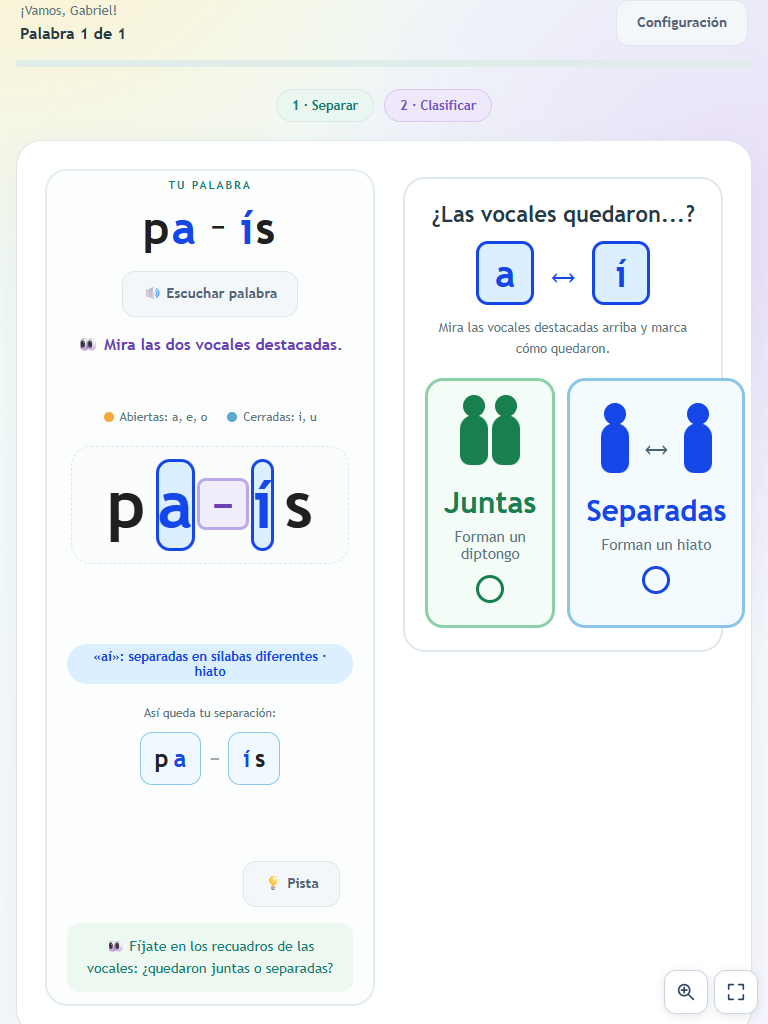
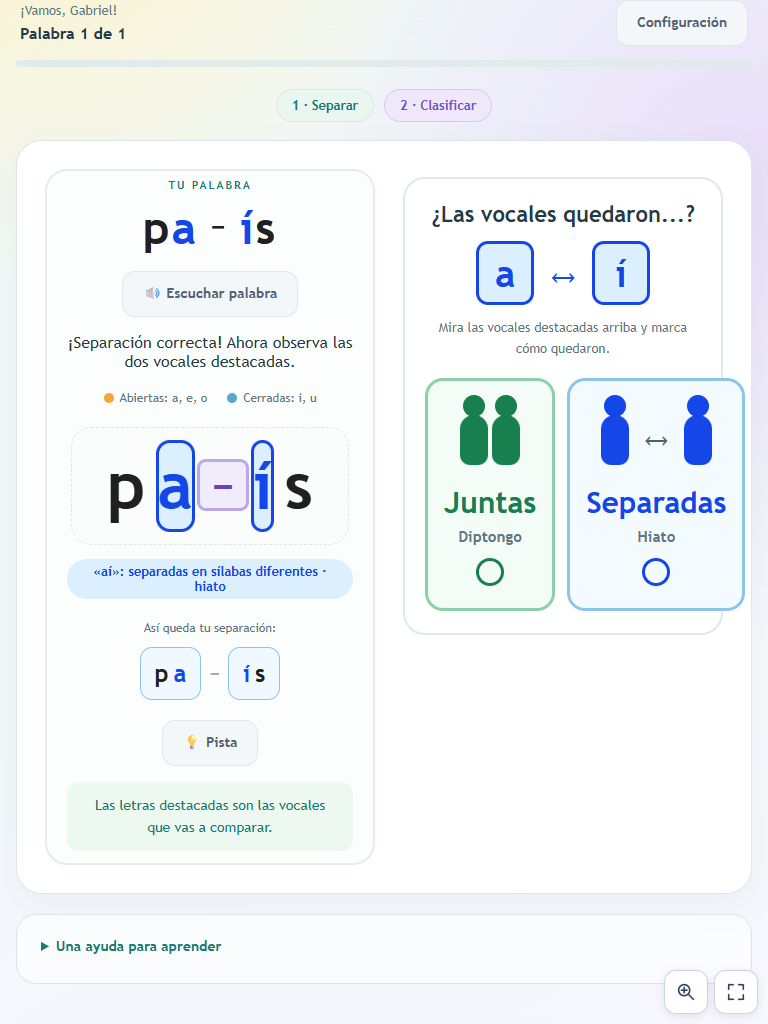
Hiato y diptongo2

diff --git a/hiato-diptongo.js b/hiato-diptongo.js
@@ -4,8 +4,8 @@
 const data = globalThis.HiatoDiptongo;
 const $ = id => document.getElementById(id);
 const key = 'hiatoDiptongo.config.v1';
-const defaults = { name: '', kind: 'ambos', level: 'easy', count: 10, help: true, sound: true, syllableSound: true };
-let settings = { ...defaults }, session = [], index = 0, current = null;
+const defaults = { name: '', kind: 'ambos', level: 'easy', help: true, readWord: true, sound: true, syllableSound: true, visualHelp: true };
+let settings = { ...defaults }, session = [], index = 0, round = 0, current = null;
 let cuts = new Set(), stage = 'separate', results = [], helped = false, helpCount = 0, attempts = 0, ticket = 0;
 let lastWord = '', speechTimer = null, speechRun = 0, dragCut = null, dragPointer = null, dragTargets = [], dragMode = 'add', dragOriginalCut = null, ignoreGapClickUntil = 0;
 const canSpeak = 'speechSynthesis' in window && 'SpeechSynthesisUtterance' in window;
@@ -15,22 +15,21 @@ try {
     settings.name = typeof saved.name === 'string' ? saved.name.slice(0, 50) : '';
     if (['ambos', 'hiato', 'diptongo'].includes(saved.kind)) settings.kind = saved.kind;
     if (['easy', 'all'].includes(saved.level)) settings.level = saved.level;
-    if ([5, 10, 20, 30].includes(saved.count)) settings.count = saved.count;
-    for (const k of ['help', 'sound', 'syllableSound']) if (typeof saved[k] === 'boolean') settings[k] = saved[k];
+    for (const k of ['help', 'readWord', 'sound', 'syllableSound', 'visualHelp']) if (typeof saved[k] === 'boolean') settings[k] = saved[k];
   }
   if (!settings.name) settings.name = (localStorage.getItem('nombreNinoGabrielApps') || '').slice(0, 50);
 } catch { /* La práctica sigue disponible con el almacenamiento bloqueado. */ }
-if (!canSpeak) { settings.sound = false; settings.syllableSound = false; }
-for (const [id, value] of [['hd-name', settings.name], ['hd-kind', settings.kind], ['hd-level', settings.level], ['hd-count', settings.count]]) $(id).value = String(value);
-$('hd-help').checked = settings.help; $('hd-sound').checked = settings.sound; $('hd-syllable-sound').checked = settings.syllableSound;
-$('hd-sound').disabled = !canSpeak; $('hd-syllable-sound').disabled = !canSpeak;
+if (!canSpeak) { settings.readWord = false; settings.sound = false; settings.syllableSound = false; }
+for (const [id, value] of [['hd-name', settings.name], ['hd-kind', settings.kind], ['hd-level', settings.level]]) $(id).value = String(value);
+$('hd-help').checked = settings.help; $('hd-read-word').checked = settings.readWord; $('hd-sound').checked = settings.sound; $('hd-syllable-sound').checked = settings.syllableSound; $('hd-visual-help').checked = settings.visualHelp;
+$('hd-read-word').disabled = !canSpeak; $('hd-sound').disabled = !canSpeak; $('hd-syllable-sound').disabled = !canSpeak;
 $('hd-listen-word').disabled = !canSpeak;
 if (!canSpeak) $('hd-listen-word').title = 'La lectura no está disponible en este navegador.';
 function readSettings() {
   settings = { name: $('hd-name').value.trim().slice(0, 50), kind: $('hd-kind').value,
-    level: $('hd-level').value, count: Number($('hd-count').value), help: $('hd-help').checked,
+    level: $('hd-level').value, help: $('hd-help').checked, readWord: canSpeak && $('hd-read-word').checked,
     sound: canSpeak && $('hd-sound').checked,
-    syllableSound: canSpeak && $('hd-syllable-sound').checked };
+    syllableSound: canSpeak && $('hd-syllable-sound').checked, visualHelp: $('hd-visual-help').checked };
 }
 function saveSettings() {
   readSettings();
@@ -43,10 +42,10 @@ function saveSettings() {
 }
 function updateAvailable() {
   const n = data.pool(settings).length;
-  $('hd-available').textContent = n + ' palabras disponibles · ' + Math.min(settings.count, n) + ' en esta sesión. La selección cambia y no repite palabras.';
+  $('hd-available').textContent = n + ' palabras disponibles por ronda. Se muestran al azar sin repetirse hasta completar la ronda.';
   $('hd-start').disabled = n === 0;
 }
-['hd-name', 'hd-kind', 'hd-level', 'hd-count', 'hd-help', 'hd-sound', 'hd-syllable-sound'].forEach(id => $(id).addEventListener(id === 'hd-name' ? 'input' : 'change', saveSettings));
+['hd-name', 'hd-kind', 'hd-level', 'hd-help', 'hd-read-word', 'hd-sound', 'hd-syllable-sound', 'hd-visual-help'].forEach(id => $(id).addEventListener(id === 'hd-name' ? 'input' : 'change', saveSettings));
 function stopSpeech() {
   speechRun++;
   if (speechTimer) clearTimeout(speechTimer);
@@ -94,8 +93,8 @@ function wordColorState(shownCuts = cuts) {
 }
 function updateVowelState() {
   const together = vowelState(), el = $('hd-vowel-state');
-  el.hidden = !separationIsReady();
-  if (!separationIsReady()) return;
+  el.hidden = !settings.visualHelp || !separationIsReady();
+  if (!settings.visualHelp || !separationIsReady()) return;
   el.className = 'hd-vowel-state ' + together;
   el.textContent = together === 'together'
     ? '«' + current.pair + '»: juntas en la misma sílaba · diptongo'
@@ -111,19 +110,19 @@ function updateReferenceWord(previewCut = null) {
   pieces.forEach((piece, index) => {
     if (index) { const dash = document.createElement('span'); dash.className = 'hd-reference-hyphen'; dash.textContent = '−'; title.append(dash); }
     const syllable = document.createElement('span'); syllable.className = 'hd-reference-syllable';
-    Array.from(piece).forEach(letter => { const span = document.createElement('span'); span.className = current.focus.includes(position) ? 'focus' : ''; position++; span.textContent = letter; syllable.append(span); });
+    Array.from(piece).forEach(letter => { const span = document.createElement('span'); span.className = settings.visualHelp && current.focus.includes(position) ? 'focus' : ''; position++; span.textContent = letter; syllable.append(span); });
     title.append(syllable);
   });
   const color = wordColorState(shownCuts);
-  title.classList.toggle('diptongo', color === 'diptongo');
-  title.classList.toggle('hiato', color === 'hiato');
+  title.classList.toggle('diptongo', settings.visualHelp && color === 'diptongo');
+  title.classList.toggle('hiato', settings.visualHelp && color === 'hiato');
 }
 function makeLetter(letter, position, tile = false) {
   const span = document.createElement('span');
   span.textContent = letter;
-  const focus = current.focus.includes(position);
+  const focus = settings.visualHelp && current.focus.includes(position);
   span.className = (tile ? 'hd-letter ' : '') + vowelClass(letter) + (focus ? ' focus' + (separationIsReady() ? ' pair-' + vowelState() : '') : '');
-  if (tile && current.focus.includes(position)) span.setAttribute('aria-label', letter + ', vocal destacada');
+  if (tile && settings.visualHelp && current.focus.includes(position)) span.setAttribute('aria-label', letter + ', vocal destacada');
   return span;
 }
 function afterSeparationChange() {
@@ -163,7 +162,7 @@ function renderLetters() {
     button.addEventListener('pointerdown', event => { if (cuts.has(cut)) startRemoveDrag(event, cut, button); });
     host.append(button);
   });
-  if (separationIsReady()) {
+  if (settings.visualHelp && separationIsReady()) {
     const [first, last] = current.focus;
     if (vowelState() === 'together') {
       const start = host.querySelector('[data-position="' + first + '"]');
@@ -195,7 +194,7 @@ function renderPreview() {
     const group = document.createElement('div'); group.className = 'hd-syllable';
     group.setAttribute('aria-hidden', 'true');
     Array.from(piece).forEach((letter, j) => group.append(makeLetter(letter, offset + j)));
-    if (current.focus.some(pos => pos >= offset && pos < offset + piece.length)) group.classList.add('focus-group', vowelState());
+    if (settings.visualHelp && current.focus.some(pos => pos >= offset && pos < offset + piece.length)) group.classList.add('focus-group', vowelState());
     host.append(group); offset += piece.length;
   });
 }
@@ -226,9 +225,12 @@ function dragGapAt(x, y) {
   return distance <= 38 ? nearest : null;
 }
 function moveDragToken(event) {
-  const token = $('hd-drag-token');
-  token.style.left = event.clientX + 'px'; token.style.top = event.clientY + 'px';
-  const gap = dragGapAt(event.clientX, event.clientY);
+  const touch = event.changedTouches?.[0] || event.touches?.[0];
+  const x = touch ? touch.clientX : event.clientX, y = touch ? touch.clientY : event.clientY;
+  const token = $('hd-drag-ghost');
+  // El guion queda apenas bajo el dedo: se ve sin tapar el punto de destino.
+  token.style.left = x + 'px'; token.style.top = (y + 30) + 'px';
+  const gap = dragGapAt(x, y);
   setDragCut(gap ? Number(gap.dataset.cut) : null);
 }
 function startDrag(event) {
@@ -240,8 +242,8 @@ function startDrag(event) {
     const box = gap.getBoundingClientRect();
     return { gap, center: box.left + box.width / 2, top: box.top, bottom: box.bottom };
   });
-  const token = $('hd-drag-token'); token.classList.add('dragging');
-  token.setPointerCapture?.(event.pointerId); moveDragToken(event);
+  $('hd-drag-ghost').classList.add('dragging');
+  $('hd-drag-token').setPointerCapture?.(event.pointerId); moveDragToken(event);
 }
 function startRemoveDrag(event, cut, source) {
   if (stage !== 'separate' || event.button > 0) return;
@@ -252,7 +254,7 @@ function startRemoveDrag(event, cut, source) {
     return { gap, center: box.left + box.width / 2, top: box.top, bottom: box.bottom };
   });
   source.classList.add('drag-source');
-  const token = $('hd-drag-token'); token.classList.add('dragging');
+  const token = $('hd-drag-ghost'); token.classList.add('dragging');
   source.setPointerCapture?.(event.pointerId); moveDragToken(event);
 }
 function endDrag(event) {
@@ -260,12 +262,12 @@ function endDrag(event) {
   // En algunos navegadores táctiles el último movimiento no llega antes de
   // soltar. Leemos también el punto final para no perder esa división.
   const finalGap = dragGapAt(event.clientX, event.clientY);
-  const token = $('hd-drag-token'), cut = finalGap ? Number(finalGap.dataset.cut) : dragCut;
+  const token = $('hd-drag-ghost'), cut = finalGap ? Number(finalGap.dataset.cut) : dragCut;
   const mode = dragMode, originalCut = dragOriginalCut;
   dragPointer = null; dragCut = null; dragTargets = []; dragMode = 'add'; dragOriginalCut = null;
   token.classList.remove('dragging'); token.style.removeProperty('left'); token.style.removeProperty('top');
   document.querySelectorAll('.hd-drag-gap.drag-source').forEach(gap => gap.classList.remove('drag-source'));
-  try { token.releasePointerCapture?.(event.pointerId); } catch { /* El puntero puede haberse liberado antes. */ }
+  try { $('hd-drag-token').releasePointerCapture?.(event.pointerId); } catch { /* El puntero puede haberse liberado antes. */ }
   if (mode === 'remove' && originalCut !== null) {
     ignoreGapClickUntil = Date.now() + 400;
     if (cut !== originalCut) {
@@ -284,70 +286,70 @@ function endDrag(event) {
 function showWord() {
   ticket++; stopSpeech(); $('hd-celebration').replaceChildren();
   current = session[index]; cuts = new Set(); stage = 'separate'; helped = false; attempts = 0;
-  $('hd-workspace').classList.remove('reviewed');
-  $('hd-instruction').style.removeProperty('height');
   $('hd-workspace').classList.add('classifying');
   $('hd-word-title').textContent = current.word;
   $('hd-word-title').className = '';
   $('hd-greeting').textContent = settings.name ? '¡Vamos, ' + settings.name + '!' : 'Vamos paso a paso';
-  $('hd-progress').textContent = 'Palabra ' + (index + 1) + ' de ' + session.length;
+  $('hd-progress').textContent = 'Ronda ' + round + ' · palabra ' + (index + 1) + ' de ' + session.length;
   $('hd-track-fill').style.width = (index / session.length * 100) + '%';
   $('hd-step-one').className = 'active'; $('hd-step-two').className = '';
   $('hd-instruction').textContent = current.cuts.length ? 'Arrastra el guion hacia el espacio entre dos letras para separar la palabra en sílabas.' : 'Esta palabra tiene una sola sílaba. Puedes revisarla sin separar.';
   $('hd-review').hidden = false; $('hd-clear').hidden = false;
-  $('hd-review').disabled = false; $('hd-clear').disabled = false;
   $('hd-drag-instruction').hidden = false; $('hd-drag-token').disabled = false;
   $('hd-hint').hidden = !settings.help;
+  $('hd-listen-word').hidden = !settings.readWord;
+  $('hd-legend').hidden = !settings.visualHelp;
   $('hd-classify').hidden = false; $('hd-classify').classList.add('pending'); $('hd-success').hidden = true;
-  for (const kind of ['hiato', 'diptongo']) { $('hd-' + kind).disabled = true; $('hd-' + kind).classList.remove('correct'); }
+  $('hd-vowel-pair').replaceChildren(); $('hd-vowel-pair').hidden = true;
+  for (const kind of ['hiato', 'diptongo']) { const choice = $('hd-' + kind); choice.disabled = true; choice.setAttribute('disabled', ''); choice.classList.remove('correct'); }
   feedback(''); renderLetters(); renderPreview(); updateReferenceWord(); updateVowelState();
   $('hd-letter-scroll').scrollLeft = 0;
 }
 function start() {
   saveSettings();
-  let deck = data.deck(data.pool(settings));
-  if (deck.length > 1 && deck[0].word === lastWord) deck.push(deck.shift());
-  session = deck.slice(0, Math.min(settings.count, deck.length));
+  startRound();
   if (!session.length) return;
-  index = 0; results = []; helpCount = 0;
+  results = []; helpCount = 0;
   $('hd-settings').hidden = true; $('hd-finish').hidden = true; $('hd-game').hidden = false;
   showWord(); $('hd-game').scrollIntoView({ block: 'start', behavior: 'auto' });
+}
+function startRound() {
+  let deck = data.deck(data.pool(settings));
+  if (deck.length > 1 && deck[0].word === lastWord) deck.push(deck.shift());
+  session = deck; index = 0; round++;
 }
 function checkSeparation() {
   if (stage !== 'separate') return;
   const pageScroll = { x: window.scrollX, y: window.scrollY };
   const letterScroll = $('hd-letter-scroll').scrollLeft;
-  const instructionHeight = $('hd-instruction').getBoundingClientRect().height;
   attempts++;
   if (!data.validateCuts(current, cuts)) {
     feedback('Todavía no coincide la separación. Revisa las divisiones que pusiste; puedes añadirlas o quitarlas.', 'retry');
     return;
   }
   stage = 'classify'; renderLetters(); renderPreview();
-  $('hd-workspace').classList.add('reviewed');
   $('hd-workspace').classList.add('classifying');
   updateReferenceWord(); updateVowelState();
-  $('hd-review').disabled = true; $('hd-clear').disabled = true;
-  $('hd-drag-token').disabled = true;
+  $('hd-review').hidden = true; $('hd-clear').hidden = true;
+  $('hd-drag-instruction').hidden = true; $('hd-drag-token').disabled = true;
   $('hd-step-one').className = 'complete'; $('hd-step-two').className = 'active';
-  $('hd-instruction').style.height = instructionHeight + 'px';
-  $('hd-instruction').textContent = '👀 Mira las dos vocales destacadas.';
+  $('hd-instruction').textContent = settings.visualHelp ? '¡Separación correcta! Ahora observa las dos vocales destacadas.' : '¡Separación correcta! Ahora elige si quedaron juntas o separadas.';
   $('hd-classify').hidden = false;
   $('hd-classify').classList.remove('pending');
-  for (const kind of ['hiato', 'diptongo']) $('hd-' + kind).disabled = false;
-  $('hd-vowel-pair').replaceChildren();
+  for (const kind of ['hiato', 'diptongo']) { const choice = $('hd-' + kind); choice.disabled = false; choice.removeAttribute('disabled'); }
+  $('hd-vowel-pair').replaceChildren(); $('hd-vowel-pair').hidden = !settings.visualHelp;
   const pairHost = $('hd-vowel-pair'), together = vowelState() === 'together';
-  if (together) {
+  if (settings.visualHelp && together) {
     const group = document.createElement('span'); group.className = 'hd-vowel-pair-group together';
     Array.from(current.pair).forEach(letter => { const span = document.createElement('span'); span.textContent = letter; group.append(span); });
     pairHost.append(group);
-  } else {
+  } else if (settings.visualHelp) {
     Array.from(current.pair).forEach((letter, index) => {
       if (index) { const mark = document.createElement('span'); mark.className = 'hd-pair-separation-mark'; mark.textContent = '↔'; mark.setAttribute('aria-hidden', 'true'); pairHost.append(mark); }
       const span = document.createElement('span'); span.className = 'separated'; span.textContent = letter; pairHost.append(span);
     });
   }
-  feedback('👀 Fíjate en los recuadros de las vocales: ¿quedaron juntas o separadas?', 'good');
+  feedback(settings.visualHelp ? 'Las letras destacadas son las vocales que vas a comparar.' : 'Elige si las vocales quedaron juntas o separadas.', 'good');
   $('hd-letter-scroll').scrollLeft = letterScroll;
   window.scrollTo(pageScroll.x, pageScroll.y);
 }
@@ -396,7 +398,7 @@ function classify(kind) {
   $('hd-track-fill').style.width = ((index + 1) / session.length * 100) + '%';
   const sentence = current.syllables.join(' · ') + '. «' + current.pair + '» forma un ' + current.kind + '. ' + data.explanation(current);
   $('hd-explanation').textContent = sentence; $('hd-success').hidden = false;
-  $('hd-next').textContent = index + 1 === session.length ? 'Ver mi resultado →' : 'Siguiente palabra →';
+  $('hd-next').textContent = index + 1 === session.length ? 'Nueva ronda →' : 'Siguiente palabra →';
   feedback('¡Bien observado!', 'good');
   $('hd-success').scrollIntoView({ block: 'nearest', behavior: 'auto' });
   if (settings.sound) speak(current.word + '. ' + data.explanation(current), celebrate); else celebrate();
@@ -434,12 +436,12 @@ window.addEventListener('pointerup', endDrag);
 window.addEventListener('pointercancel', endDrag);
 $('hd-drag-token').addEventListener('click', event => { if (!event.detail) feedback('Mantén presionado el guion y arrástralo al espacio entre dos letras.'); });
 $('hd-hint').addEventListener('click', giveHint);
-$('hd-listen-word').addEventListener('click', () => { if (current) speak(current.word); });
+$('hd-listen-word').addEventListener('click', () => { if (current && settings.readWord) speak(current.word); });
 $('hd-hiato').addEventListener('click', () => classify('hiato'));
 $('hd-diptongo').addEventListener('click', () => classify('diptongo'));
 $('hd-next').addEventListener('click', () => {
   if (stage !== 'done') return;
-  index++; if (index >= session.length) finish(); else showWord();
+  index++; if (index >= session.length) { startRound(); results = []; helpCount = 0; } showWord();
 });
 window.addEventListener('pagehide', () => { ticket++; stopSpeech(); });
 updateAvailable();

diff --git a/Hiato_y_Diptongo.html b/Hiato_y_Diptongo.html
@@ -23,9 +23,8 @@
       <label>Nombre<input id="hd-name" type="text" maxlength="50" autocomplete="given-name" placeholder="Ejemplo: Gabriel"></label>
       <label>Qué practicamos<select id="hd-kind"><option value="ambos">Hiatos y diptongos</option><option value="hiato">Hiatos</option><option value="diptongo">Diptongos</option></select></label>
       <label>Palabras<select id="hd-level"><option value="easy">Para empezar: palabras cortas</option><option value="all">Todas: incluye palabras largas y h</option></select></label>
-      <label>Palabras por sesión<select id="hd-count"><option value="5">5 palabras</option><option value="10" selected>10 palabras</option><option value="20">20 palabras</option><option value="30">30 palabras</option></select></label>
     </div>
-    <div class="hd-options"><label><input id="hd-help" type="checkbox" checked> Permitir pistas</label><label><input id="hd-sound" type="checkbox" checked> Leer la explicación al acertar</label><label><input id="hd-syllable-sound" type="checkbox" checked> Leer las sílabas al separar</label></div>
+    <div class="hd-options"><label><input id="hd-help" type="checkbox" checked> Pista verbal</label><label><input id="hd-read-word" type="checkbox" checked> Escuchar la palabra</label><label><input id="hd-syllable-sound" type="checkbox" checked> Leer las sílabas al separar</label><label><input id="hd-sound" type="checkbox" checked> Leer la explicación al acertar</label><label><input id="hd-visual-help" type="checkbox" checked> Señales visuales</label></div>
     <p id="hd-available" class="hd-note" role="status"></p>
     <p id="hd-storage" class="hd-note" role="status"></p>
     <button id="hd-start" class="hd-button hd-primary" type="button">Empezar práctica →</button>
@@ -50,7 +49,7 @@
       <section id="hd-classify" class="hd-classify" hidden aria-labelledby="hd-classify-title">
         <h3 id="hd-classify-title">¿Las vocales quedaron...?</h3><div id="hd-vowel-pair" class="hd-vowel-pair" aria-hidden="true"></div>
         <p>Mira las vocales destacadas arriba y marca cómo quedaron.</p>
-        <div class="hd-choice-grid"><button id="hd-diptongo" class="hd-choice hd-choice-together" type="button"><span class="hd-visual-choice together" aria-hidden="true"><i></i><i></i></span><strong>Juntas</strong><span>Forman un diptongo</span><span class="hd-choice-circle" aria-hidden="true"></span></button><button id="hd-hiato" class="hd-choice hd-choice-separated" type="button"><span class="hd-visual-choice separated" aria-hidden="true"><i></i><b>↔</b><i></i></span><strong>Separadas</strong><span>Forman un hiato</span><span class="hd-choice-circle" aria-hidden="true"></span></button></div>
+        <div class="hd-choice-grid"><button id="hd-diptongo" class="hd-choice hd-choice-together" type="button"><span class="hd-visual-choice together" aria-hidden="true"><i></i><i></i></span><strong>Juntas</strong><span class="hd-choice-kind">Diptongo</span><span class="hd-choice-circle" aria-hidden="true"></span></button><button id="hd-hiato" class="hd-choice hd-choice-separated" type="button"><span class="hd-visual-choice separated" aria-hidden="true"><i></i><b>↔</b><i></i></span><strong>Separadas</strong><span class="hd-choice-kind">Hiato</span><span class="hd-choice-circle" aria-hidden="true"></span></button></div>
       </section></div>
       <div id="hd-success" class="hd-success" hidden><strong>¡Lo descubriste! ⭐</strong><p id="hd-explanation"></p><button id="hd-next" class="hd-button hd-primary" type="button">Siguiente palabra →</button></div>
     </div>
@@ -59,7 +58,7 @@
   <details class="hd-reference"><summary>Una ayuda para aprender</summary><div class="hd-reference-grid"><article><h3>Diptongo</h3><p>Dos vocales están en la misma sílaba: <b>ai</b>-re, p<b>ue</b>r-ta. Se unen una abierta y una cerrada sin tilde, o dos cerradas distintas.</p></article><article><h3>Hiato</h3><p>Dos vocales están en sílabas distintas: te-<b>a</b>-tro, pa-<b>ís</b>. Se separan dos abiertas, o una abierta y una cerrada con tilde.</p></article></div><p>La h intercalada no cambia la relación entre las vocales: co-he-te, bú-ho. Usamos separaciones escolares basadas en los criterios ortográficos; algunas pronunciaciones varían según la región.</p><a href="https://www.rae.es/ortograf%C3%ADa-b%C3%A1sica/uso-de-la-tilde/las-reglas-de-acentuaci%C3%B3n-gr%C3%A1fica/la-acentuaci%C3%B3n-gr%C3%A1fica-de-las-palabras-con-secuencias-voc%C3%A1licas" target="_blank" rel="noopener noreferrer">Consultar los criterios de la RAE ↗</a></details>
 </main>
 <footer id="creditos-aplicaciones" aria-label="Dedicatoria y créditos"><div class="creditos-dedicatoria"><span class="creditos-gabriel">Creado para <strong>Gabriel</strong></span><span class="creditos-familia">Por su familia, con ayuda de la IA.</span></div><div class="creditos-equipo"><span class="creditos-autores">M.Sc. Jeffry Chavarría-Molina y Ph.D. (c) Natalia Rodríguez-Granados</span><span class="creditos-institucion">Instituto Tecnológico de Costa Rica</span></div></footer>
-<div id="hd-celebration" aria-hidden="true"></div>
+<div id="hd-celebration" aria-hidden="true"></div><div id="hd-drag-ghost" aria-hidden="true">−</div>
 <script src="hiato-diptongo-datos.js"></script>
 <script src="hiato-diptongo.js"></script>
 <script src="pantalla-completa.js"></script>

diff --git a/hiato-diptongo.css b/hiato-diptongo.css
@@ -71,6 +71,14 @@
 .hd-drag-gap.selected::after{width:46px;height:46px;border:3px solid #bba8e8;background:#f0ecfb;color:#6941b8;font-size:40px;line-height:.7;transform:translateY(-1px)}
 .hd-drag-gap.preview::after{width:46px;height:46px;border:3px solid #bba8e8;background:#f0ecfb;color:#6941b8;font-size:40px;line-height:.7}
 #hd-drag-token{width:54px;height:54px;border:3px solid #bba8e8;background:#f0ecfb;color:#6941b8;font-size:40px;line-height:.7}
+#hd-drag-ghost{display:none;position:fixed;z-index:10002;pointer-events:none;width:54px;height:54px;place-items:center;border:3px solid #bba8e8;border-radius:13px;background:#f0ecfb;color:#6941b8;font-size:40px;font-weight:900;line-height:.7;transform:translate(-50%,-50%);box-shadow:0 5px 14px #4f388e50}
+#hd-drag-ghost.dragging{display:grid}
+.hd-choice-kind{font-weight:800!important;letter-spacing:.2px}
+
+/* El área táctil sigue siendo amplia, pero la vista previa no debe verse como
+   un bloque alto ni cambiar la alineación de la palabra. */
+.hd-drag-gap.preview::before{background:transparent!important;box-shadow:none!important}
+.hd-drag-gap.preview::after{position:absolute;left:50%;top:50%;transform:translate(-50%,-50%);margin:0}
 @media(max-width:650px){.hd-workspace h2#hd-word-title{gap:8px}.hd-reference-hyphen{border-width:2px}.hd-drag-gap.selected{flex-basis:46px;width:46px;min-width:46px}.hd-drag-gap.selected::after,.hd-drag-gap.preview::after{width:39px;height:39px;font-size:34px;border-width:2px}#hd-drag-token{width:48px;height:48px;font-size:36px}}
 
 /* Al clasificar, la palabra queda a la izquierda y la decisión a la derecha. */
@@ -116,7 +124,3 @@
 .hd-main-vowel-group{display:inline-flex;align-items:center;flex:none;padding:0;border:0;outline:3px solid #18804e;outline-offset:0;border-radius:15px;background:#daf5e6}
 .hd-main-vowel-group .hd-letter.focus{border:0!important;border-radius:0!important;background:transparent!important;box-shadow:none!important;outline:0!important}
 .hd-letters.word-hiato .hd-letter.hd-main-vowel-separated{border:0;border-radius:14px;background:#dcefff!important;box-shadow:inset 0 0 0 3px #1546e8!important}
-.hd-workspace.reviewed .hd-drag-instruction{visibility:hidden}
-.hd-workspace.reviewed #hd-review,.hd-workspace.reviewed #hd-clear{visibility:hidden}
-.hd-workspace.reviewed #hd-instruction{font-weight:700;color:#6941b8}
-.hd-main-vowel-group{align-self:center}
